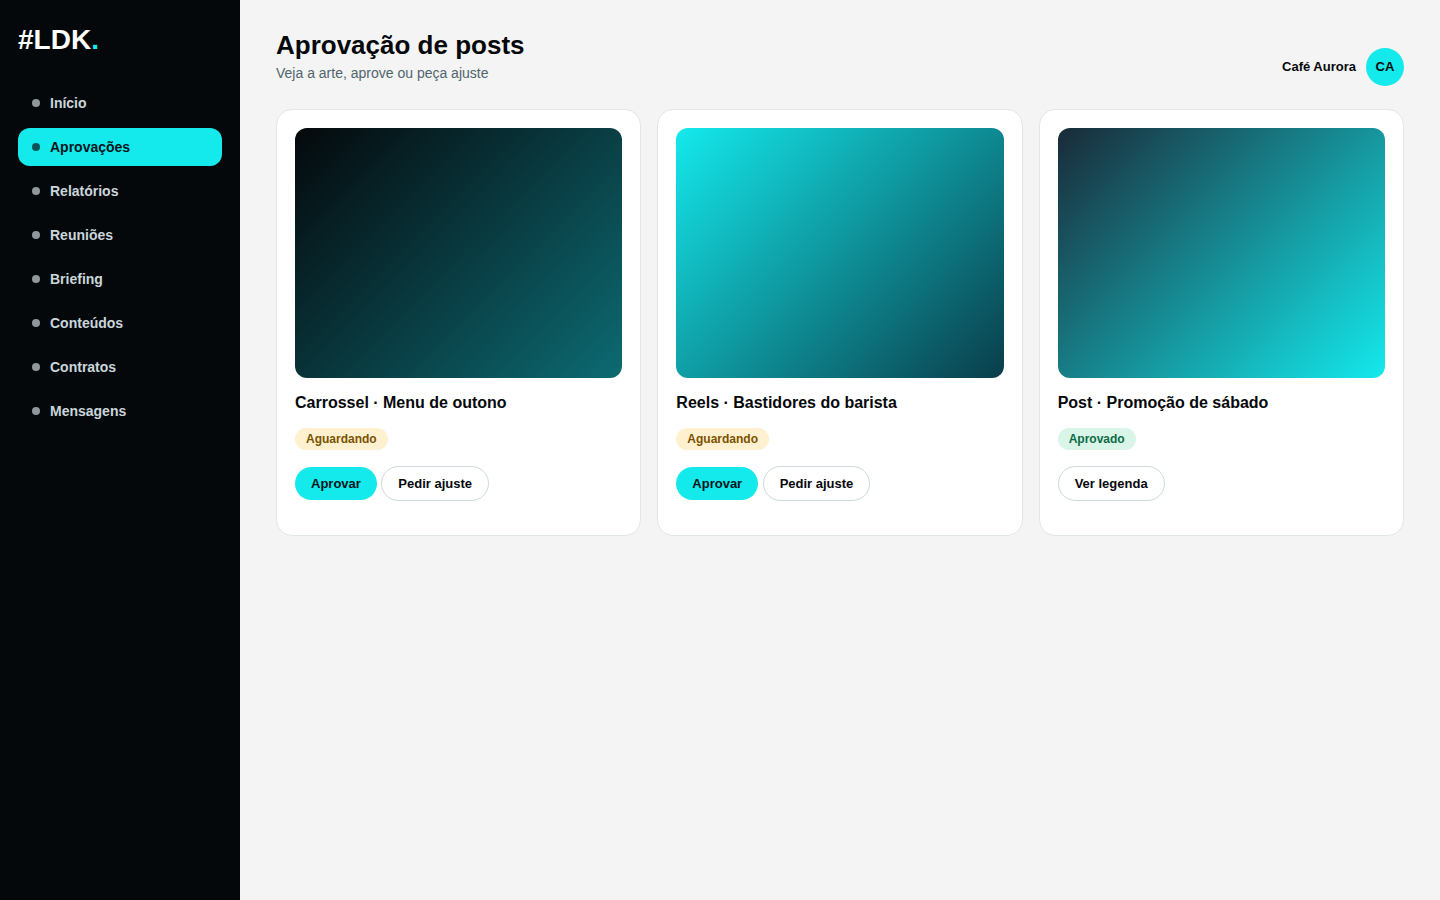
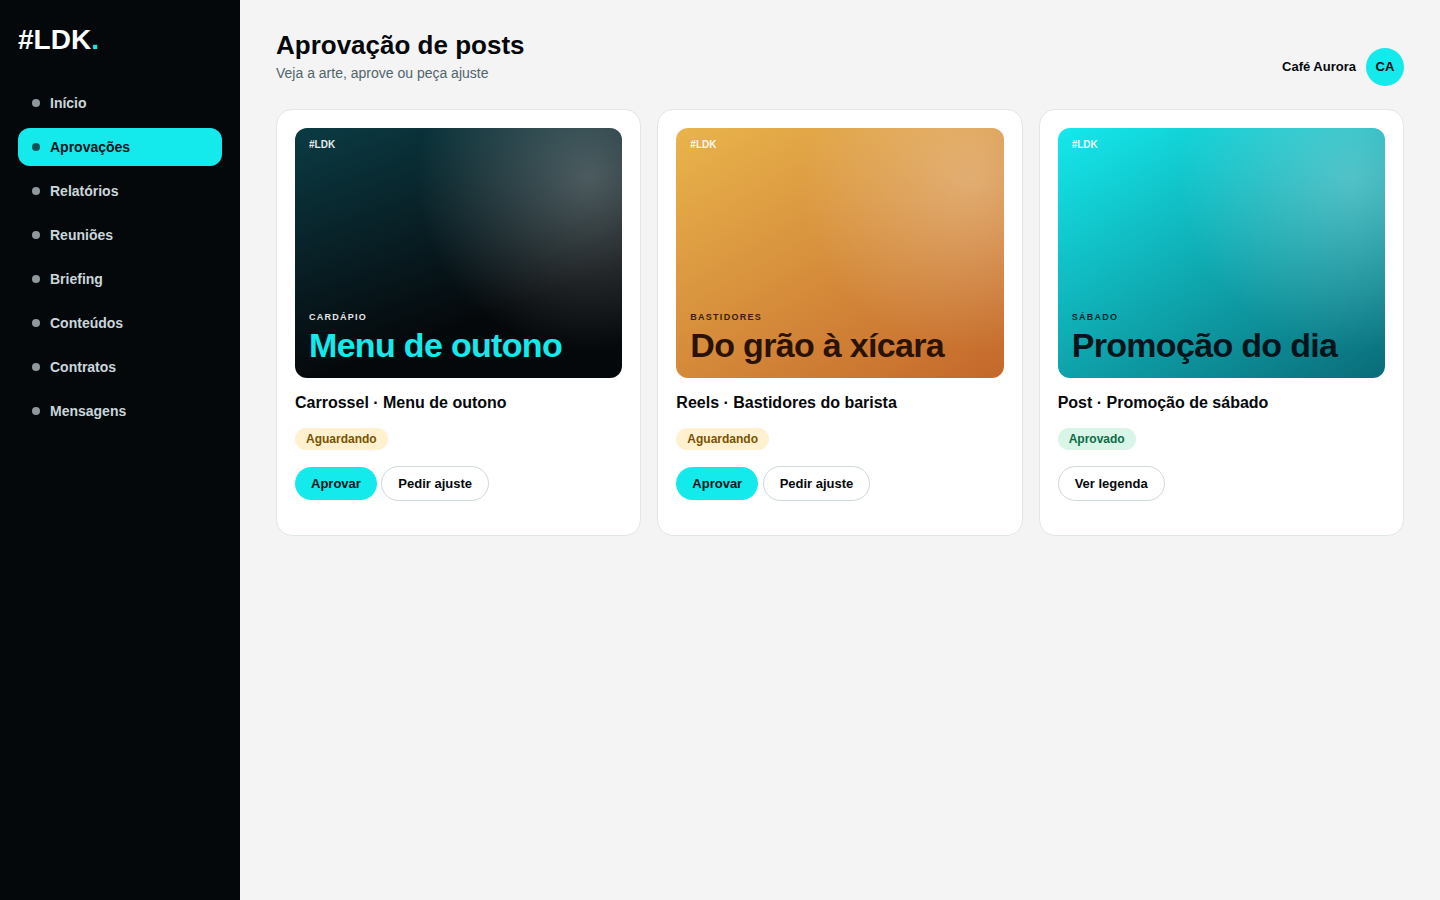
LDK Site 1.1.0: fundo em degradê sem grade, hero com telas, hover sem vermelho, página de links nova
Claude-Session: https://claude.ai/code/session_011pgf2pCX9Br4yvdMzoyXDs

Changed region(s): [[0.4688, 0.1244, 0.9688, 0.4356], [0.1875, 0.1244, 0.4375, 0.4356], [0.1875, 0.1244, 0.2812, 0.2489]]

diff --git a/ldk-site/assets/css/site.css b/ldk-site/assets/css/site.css
@@ -353,3 +353,91 @@ html:not(.ldk-js) .ldk-intro{display:none}
 html:has(.ldk-site){overflow-x:clip}
 .ldk-main{overflow-x:clip}
 .g1{grid-template-columns:1fr;max-width:820px;margin-inline:auto}
+
+/* ===== 1.1 — fundo em degradê, sem quadriculado; visual mais editorial ===== */
+.ldk-bg{background:
+ radial-gradient(1100px 700px at 88% -8%,rgba(18,160,172,.55) 0%,transparent 62%),
+ radial-gradient(900px 650px at -8% 22%,rgba(18,70,140,.50) 0%,transparent 62%),
+ radial-gradient(1000px 700px at 100% 68%,rgba(12,110,128,.40) 0%,transparent 64%),
+ radial-gradient(900px 600px at 0% 100%,rgba(16,60,120,.38) 0%,transparent 62%),
+ linear-gradient(180deg,#05080B 0%,#07202b 34%,#061923 66%,#05090e 100%)}
+.ldk-bg .grid,.ldk-bg .g1,.ldk-bg .g2{display:none}
+
+.ldk .ldk-eyebrow,.ldk-site .ldk-eyebrow{border:0;background:none;padding:0;border-radius:0;font-size:.76rem;letter-spacing:.2em;gap:12px;color:var(--cy)}
+.ldk-eyebrow:before{content:"";width:34px;height:2px;background:var(--cy);border-radius:2px}
+.hl{text-shadow:none;background:linear-gradient(100deg,#14E9EC,#5fb6ff);-webkit-background-clip:text;background-clip:text;color:transparent;-webkit-text-fill-color:transparent}
+.ldk-btn{box-shadow:0 8px 24px rgba(20,233,236,.22)}
+.ldk-btn:hover{box-shadow:0 12px 32px rgba(20,233,236,.34)}
+.ldk-card,.ldk-steps li,.ldk-post,.ldk-faq details,.ldk-info a,.ldk-info .a,.pt{background:linear-gradient(160deg,rgba(255,255,255,.075),rgba(255,255,255,.025));border-color:rgba(255,255,255,.1)}
+.ldk-card:before{display:none}
+a.ldk-card:hover,.ldk-card:hover,.ldk-post:hover{border-color:rgba(20,233,236,.45);box-shadow:0 22px 50px rgba(0,0,0,.35)}
+.ldk-ico{background:linear-gradient(135deg,rgba(20,233,236,.2),rgba(47,140,255,.14));border:0;box-shadow:none;border-radius:16px}
+.ldk-steps .n{-webkit-text-stroke:0;text-shadow:none;background:linear-gradient(135deg,#14E9EC,#4aa8ff);-webkit-background-clip:text;background-clip:text;-webkit-text-fill-color:transparent;font-size:2.4rem}
+.ldk-formcard,.ldk-diagbox,.ldk-cta,.ldk-social{box-shadow:0 30px 70px rgba(0,0,0,.35);border-color:rgba(255,255,255,.12)}
+.ldk-cta{background:linear-gradient(135deg,rgba(20,233,236,.2),rgba(30,90,200,.18) 60%,rgba(7,24,38,.7))}
+.ldk-marq{background:linear-gradient(90deg,rgba(20,233,236,.1),rgba(47,140,255,.08));border-color:rgba(255,255,255,.08)}
+.ldk-proof{color:var(--mu)}
+
+/* Sem vermelho no hover: neutraliza o estilo de botões/links do Elementor (kit) */
+.ldk-site button,.ldk button,.ldk-site [type=button],.ldk-site [type=submit]{box-shadow:none;text-shadow:none;text-transform:none;letter-spacing:inherit}
+.ldk-site a:hover,.ldk-site a:focus{color:inherit;text-decoration:none}
+.ldk-site .ldk-btn:hover,.ldk-site .ldk-btn:focus{background:#5ff3f5!important;border-color:#5ff3f5!important;color:#04141A!important;box-shadow:0 12px 32px rgba(20,233,236,.34)}
+.ldk-site .ldk-btn.ghost:hover,.ldk-site .ldk-btn.ghost:focus{background:rgba(20,233,236,.1)!important;border-color:var(--cy)!important;color:#EEF6F8!important;box-shadow:none}
+.ldk-site .pt,.ldk-site .pt:hover,.ldk-site .pt:focus{color:#EEF6F8!important}
+.ldk-site .pt:hover{background:rgba(20,233,236,.07)!important;border-color:rgba(20,233,236,.45)!important}
+.ldk-site .pt.on,.ldk-site .pt.on:hover{background:rgba(20,233,236,.11)!important;border-color:rgba(20,233,236,.6)!important}
+.ldk-site .burger:hover,.ldk-site .burger:focus{background:rgba(20,233,236,.1)!important;border-color:var(--cy)!important}
+.ldk-site .ldk-nav a:hover{color:#14E9EC}
+.ldk-site .soc a:hover{background:var(--cy);color:#04141A}
+.ldk-site .ldk-wafab:hover{background:#5ff3f5;color:#04141A}
+.ldk-site .ldk-faq summary:hover{color:#14E9EC;background:none}
+.ldk-site .opt:hover span{background:rgba(20,233,236,.08)}
+.ldk-site input:focus,.ldk-site select:focus,.ldk-site textarea:focus{background-color:rgba(5,8,11,.8)}
+
+/* Hero: telas reais no lugar dos círculos */
+.ldk-herovis{position:relative;aspect-ratio:1/.92;max-width:660px;width:100%;margin:0 auto}
+.hv-glow{position:absolute;inset:6% 0 0 8%;background:radial-gradient(circle,rgba(20,233,236,.38),transparent 62%);filter:blur(30px)}
+.hv-laptop{position:absolute;left:0;top:8%;width:86%;border-radius:16px;overflow:hidden;background:#0b1620;border:1px solid rgba(255,255,255,.14);box-shadow:0 40px 90px rgba(0,0,0,.55)}
+.hv-laptop .bar{display:flex;gap:6px;padding:9px 12px;background:#0a121a}
+.hv-laptop .bar i{width:8px;height:8px;border-radius:50%;background:#2a3b47}
+.hv-laptop img{display:block;width:100%;height:auto}
+.hv-phone{position:absolute;right:0;bottom:0;width:30%;filter:drop-shadow(0 30px 40px rgba(0,0,0,.6))}
+.hv-phone img{display:block;width:100%;height:auto}
+.hv-toast{position:absolute;left:-3%;bottom:6%;display:flex;gap:12px;align-items:center;padding:12px 18px 12px 14px;border-radius:16px;background:rgba(255,255,255,.96);color:#05080B;box-shadow:0 18px 40px rgba(0,0,0,.4);animation:ldkbob 6s ease-in-out infinite}
+.hv-toast .ico{width:30px;height:30px;padding:6px;border-radius:50%;background:#14E9EC;color:#04141A}
+.hv-toast span{display:flex;flex-direction:column;font-size:.86rem}.hv-toast small{color:#4a5f68;font-size:.74rem}
+.ldk-scroll{display:none}
+
+/* Painel: moldura mais limpa */
+.pdev{border-color:rgba(255,255,255,.12);box-shadow:0 40px 90px rgba(0,0,0,.5)}
+.pdev .ps{object-fit:contain;background:#f4f4f4}
+
+/* Página de links */
+.ldk-bare .ldk-bg{background:
+ radial-gradient(800px 560px at 50% -6%,rgba(20,233,236,.45),transparent 62%),
+ radial-gradient(700px 500px at 100% 70%,rgba(47,140,255,.32),transparent 62%),
+ radial-gradient(700px 500px at 0% 90%,rgba(12,110,128,.38),transparent 62%),
+ linear-gradient(180deg,#05080B,#07202b 55%,#05090e)}
+.ldk-linkpage{padding:44px 18px 56px;align-items:start}
+.lp-card{max-width:460px}
+.lp-av{width:112px;height:112px;margin:8px auto 20px;background:none;border:0;box-shadow:0 18px 50px rgba(20,233,236,.28);border-radius:34px;animation:none;overflow:hidden}
+.lp-av .ldk-mark{width:100%;height:100%;display:block}
+.lp-card h1{font-size:1.55rem;margin-bottom:8px}
+.lp-card>p{font-size:.96rem;margin-bottom:28px}
+.lp-list{gap:14px}
+.lp-link{display:flex;align-items:center;gap:16px;padding:14px 16px;border-radius:20px;background:linear-gradient(160deg,rgba(255,255,255,.11),rgba(255,255,255,.04));border:1px solid rgba(255,255,255,.14);animation:none;color:#EEF6F8!important;transition:transform .3s,border-color .3s,background .3s}
+.lp-link .lic{width:48px;height:48px;border-radius:15px;display:grid;place-items:center;flex:none;background:linear-gradient(135deg,rgba(20,233,236,.25),rgba(47,140,255,.2));color:#14E9EC}
+.lp-link .lic .ico{width:24px;height:24px}
+.lp-link .go{width:34px;height:34px;border-radius:50%;display:grid;place-items:center;background:rgba(255,255,255,.08);color:#14E9EC;flex:none;transition:.3s}
+.lp-link .go .ico{width:16px;height:16px}
+.lp-link>.ico{display:none}
+.lp-link:hover{transform:translateY(-3px);border-color:rgba(20,233,236,.55);background:linear-gradient(160deg,rgba(20,233,236,.16),rgba(255,255,255,.05))}
+.lp-link:hover .go{background:#14E9EC;color:#04141A}
+.lp-link.main{background:linear-gradient(135deg,#14E9EC,#3aa0ff);border-color:transparent;color:#04141A!important;box-shadow:0 18px 44px rgba(20,233,236,.3)}
+.lp-link.main .lic{background:rgba(4,20,26,.14);color:#04141A}
+.lp-link.main small{color:#0a3a42}
+.lp-link.main .go{background:#04141A;color:#14E9EC}
+.lp-link.main:hover{background:linear-gradient(135deg,#5ff3f5,#6bb4ff)}
+
+@media (max-width:860px){.ldk-herovis{max-width:460px;aspect-ratio:1/.9;order:2}.ldk-herosec{padding-top:10px}}
+@media (max-width:620px){.hv-toast{left:0;bottom:2%;padding:9px 13px}.hv-phone{width:32%}}

diff --git a/ldk-site/includes/render.php b/ldk-site/includes/render.php
@@ -44,24 +44,20 @@ function ldk_site_r_pagehead( $s ) {
 }
 
 function ldk_site_r_hero( $s ) {
-	$chips = '';
-	foreach ( ldk_site_lines( $s['chips'] ) as $i => $c ) {
-		$chips .= '<span class="chip c' . ( $i % 5 ) . '" style="--d:' . ( 0.5 + $i * 0.12 ) . 's">' . esc_html( $c ) . '</span>';
-	}
 	return '<section class="ldk-sec ldk-herosec"><div class="ldk-wrap ldk-herogrid">' .
 		'<div class="ldk-herotxt">' .
-		'<span class="ldk-eyebrow" data-r><i class="dot"></i>' . esc_html( $s['eyebrow'] ) . '</span>' .
+		'<span class="ldk-eyebrow" data-r>' . esc_html( $s['eyebrow'] ) . '</span>' .
 		'<h1 class="ldk-h1" data-r style="--d:.06s">' . ldk_site_hl( $s['title'] ) . '</h1>' .
 		'<p class="ldk-lead" data-r style="--d:.12s">' . esc_html( $s['text'] ) . '</p>' .
 		'<div class="ldk-actions" data-r style="--d:.18s">' . ldk_site_btn( $s['btn1'], $s['btn1_u'] ) . ldk_site_btn( $s['btn2'], $s['btn2_u'], true ) . '</div>' .
-		( $s['proof'] ? '<p class="ldk-proof" data-r style="--d:.24s">' . ldk_site_ico( 'star' ) . esc_html( $s['proof'] ) . '</p>' : '' ) .
+		( $s['proof'] ? '<p class="ldk-proof" data-r style="--d:.24s">' . esc_html( $s['proof'] ) . '</p>' : '' ) .
 		'</div>' .
 		'<div class="ldk-herovis" data-r="zoom" aria-hidden="true">' .
-		'<div class="orb o1" data-par="-.06"></div><div class="orb o2" data-par=".05"></div>' .
-		'<div class="ring r1"></div><div class="ring r2"></div><div class="ring r3"></div>' .
-		'<div class="core">' . ldk_site_logo_html( 'ldk-logo core-logo' ) . '</div>' .
-		$chips .
-		'</div></div><a class="ldk-scroll" href="#ldk-next" aria-label="Rolar"><i></i></a><span id="ldk-next"></span></section>';
+		'<div class="hv-glow" data-par="-.05"></div>' .
+		'<div class="hv-laptop" data-par=".03"><div class="bar"><i></i><i></i><i></i></div><img src="' . esc_url( ldk_site_img( $s['img_main'] ) ) . '" alt=""></div>' .
+		'<div class="hv-phone" data-par="-.04"><img src="' . esc_url( ldk_site_img( $s['img_phone'] ) ) . '" alt=""></div>' .
+		'<div class="hv-toast">' . ldk_site_ico( 'check' ) . '<span><b>Post aprovado</b><small>Publicação agendada</small></span></div>' .
+		'</div></div></section>';
 }
 
 function ldk_site_r_marquee( $s ) {
@@ -237,14 +233,14 @@ function ldk_site_r_posts( $s ) {
 }
 
 function ldk_site_r_links( $s ) {
-	$h = '<section class="ldk-linkpage"><div class="lp-card" data-r="zoom"><div class="lp-av">' . ldk_site_logo_html( 'ldk-logo' ) . '</div>' .
-		'<h1>' . esc_html( $s['name'] ) . '</h1><p>' . esc_html( $s['bio'] ) . '</p><div class="lp-list">';
+	$h = '<section class="ldk-linkpage"><div class="lp-card"><div class="lp-av" data-r="zoom">' . ldk_site_mark() . '</div>' .
+		'<h1 data-r style="--d:.05s">' . esc_html( $s['name'] ) . '</h1><p data-r style="--d:.1s">' . esc_html( $s['bio'] ) . '</p><div class="lp-list">';
 	foreach ( (array) $s['items'] as $i => $it ) {
 		$u  = ldk_site_link( $it['url'] );
-		$h .= '<a class="lp-link" href="' . esc_url( $u ) . '" style="--d:' . ( 0.15 + $i * 0.07 ) . 's"' . ( 0 === strpos( $u, 'http' ) && false === strpos( $u, home_url() ) ? ' target="_blank" rel="noopener"' : '' ) . '>' .
-			'<span class="ldk-ico">' . ldk_site_ico( isset( $it['icon'] ) ? $it['icon'] : 'link' ) . '</span><span class="tx"><b>' . esc_html( $it['title'] ) . '</b><small>' . esc_html( $it['sub'] ) . '</small></span>' . ldk_site_ico( 'arrow' ) . '</a>';
+		$h .= '<a class="lp-link' . ( 0 === $i ? ' main' : '' ) . '" href="' . esc_url( $u ) . '" data-r style="--d:' . ( 0.12 + $i * 0.06 ) . 's"' . ( 0 === strpos( $u, 'http' ) && false === strpos( $u, home_url() ) ? ' target="_blank" rel="noopener"' : '' ) . '>' .
+			'<span class="lic">' . ldk_site_ico( isset( $it['icon'] ) ? $it['icon'] : 'link' ) . '</span><span class="tx"><b>' . esc_html( $it['title'] ) . '</b><small>' . esc_html( $it['sub'] ) . '</small></span><span class="go">' . ldk_site_ico( 'arrow' ) . '</span></a>';
 	}
-	return $h . '</div><p class="lp-foot">© ' . gmdate( 'Y' ) . ' LDK Marketing Digital</p></div></section>';
+	return $h . '</div><p class="lp-foot">© ' . gmdate( 'Y' ) . ' LDK Marketing Digital · ' . esc_html( ldk_site_opt( 'cidade' ) ) . '</p></div></section>';
 }
 
 function ldk_site_r_faq( $s ) {

diff --git a/ldk-site/includes/helpers.php b/ldk-site/includes/helpers.php
@@ -98,8 +98,8 @@ function ldk_site_ico( $name ) {
 			'bell'    => '<path d="M6 16V11a6 6 0 1 1 12 0v5l2 2H4zM10 21h4"/>',
 			'lock'    => '<rect x="5" y="11" width="14" height="10" rx="2"/><path d="M8 11V8a4 4 0 0 1 8 0v3"/>',
 			'pin'     => '<path d="M12 21s7-6.2 7-11a7 7 0 1 0-14 0c0 4.8 7 11 7 11z"/><circle cx="12" cy="10" r="2.5"/>',
-			'ig'      => '<rect x="3" y="3" width="18" height="18" rx="5"/><circle cx="12" cy="12" r="4"/><circle cx="17.5" cy="6.5" r=".8"/>',
-			'wa'      => '<path d="M21 12a8 8 0 0 1-11.5 7.2L4 20l1-4.4A8 8 0 1 1 21 12z"/><path d="M9 9c0 3 3 6 6 6l1-2-2-1-1 .8c-.8-.4-1.600-1.200-2-2L11.800 10l-1-2z"/>',
+			'ig'      => '<rect x="3" y="3" width="18" height="18" rx="5"/><circle cx="12" cy="12" r="4"/><path d="M17.5 6.5h.01"/>',
+			'wa'      => '<path d="M3 21l1.6-4.9A9 9 0 1 1 8 19.5z"/><path d="M9 8.5c.3 3.2 3.300 6.200 6.500 6.500l1.300-1.600-2.300-1.200-.900.900c-1-.4-2.200-1.600-2.600-2.600l.9-.9L10.700 7z"/>',
 			'mail'    => '<rect x="3" y="5" width="18" height="14" rx="2"/><path d="m3 7 9 6 9-6"/>',
 			'globe'   => '<circle cx="12" cy="12" r="9"/><path d="M3 12h18M12 3c3 3 3 15 0 18M12 3c-3 3-3 15 0 18"/>',
 			'link'    => '<path d="M10 14a4 4 0 0 0 5.700 0l3-3a4 4 0 0 0-5.700-5.700l-1 1M14 10a4 4 0 0 0-5.700 0l-3 3a4 4 0 0 0 5.700 5.700l1-1"/>',
@@ -117,4 +117,9 @@ function ldk_site_logo_html( $cls = 'ldk-logo' ) {
 	$src = esc_url( ldk_site_opt( 'logo' ) );
 	$fb  = esc_url( ldk_site_logo_fallback() );
 	return '<img class="' . esc_attr( $cls ) . '" src="' . $src . '" alt="LDK Marketing Digital" onerror="this.onerror=null;this.src=\'' . $fb . '\'">';
+}
+
+/** Monograma em SVG embutido (nunca quebra, mesmo sem a imagem da logo). */
+function ldk_site_mark() {
+	return '<svg class="ldk-mark" viewBox="0 0 120 120" aria-label="LDK" role="img"><defs><linearGradient id="ldkg" x1="0" y1="0" x2="1" y2="1"><stop offset="0" stop-color="#14E9EC"/><stop offset="1" stop-color="#2f8cff"/></linearGradient></defs><rect x="3" y="3" width="114" height="114" rx="34" fill="#071826"/><rect x="3" y="3" width="114" height="114" rx="34" fill="none" stroke="url(#ldkg)" stroke-width="3"/><text x="60" y="73" text-anchor="middle" font-family="Montserrat,Arial,sans-serif" font-weight="800" font-size="40" fill="#fff" letter-spacing="-1">LDK</text><circle cx="60" cy="90" r="4" fill="#14E9EC"/></svg>';
 }

diff --git a/ldk-site/includes/schema.php b/ldk-site/includes/schema.php
@@ -32,7 +32,8 @@ function ldk_site_schema() {
 				'btn1_u'  => array( 'url', 'Botão 1 (link)', 'pg:contato' ),
 				'btn2'    => array( 'text', 'Botão 2 (texto)', 'Fazer meu diagnóstico grátis' ),
 				'btn2_u'  => array( 'url', 'Botão 2 (link)', 'pg:diagnostico' ),
-				'chips'   => array( 'textarea', 'Etiquetas flutuantes (uma por linha)', "Redes sociais\nTráfego pago\nVídeos\nSites\nBranding" ),
+				'img_main'  => array( 'image', 'Imagem principal (tela do painel)', $p . 'painel-relatorios.png' ),
+				'img_phone' => array( 'image', 'Imagem do celular', $p . 'celular-perfil.png' ),
 				'proof'   => array( 'text', 'Prova (rodapé do hero)', 'Desde 2018 · +30 clientes fixos todo mês' ),
 			),
 		),

diff --git a/ldk-site/ldk-site.php b/ldk-site/ldk-site.php
@@ -2,7 +2,7 @@
 /**
  * Plugin Name: LDK Site
  * Description: Site institucional da LDK Marketing Digital em um único plugin: instala páginas, widgets do Elementor Pro, imagens, menu, animações e formulários ligados ao CRM. Sem tema.
- * Version: 1.0.0
+ * Version: 1.1.0
  * Author: Eleve Websites
  * Requires PHP: 7.4
  * Text Domain: ldk-site
@@ -11,7 +11,7 @@ if ( ! defined( 'ABSPATH' ) ) {
 	exit;
 }
 
-define( 'LDK_SITE_VERSION', '1.0.0' );
+define( 'LDK_SITE_VERSION', '1.1.0' );
 define( 'LDK_SITE_FILE', __FILE__ );
 define( 'LDK_SITE_DIR', plugin_dir_path( __FILE__ ) );
 define( 'LDK_SITE_URL', plugin_dir_url( __FILE__ ) );
